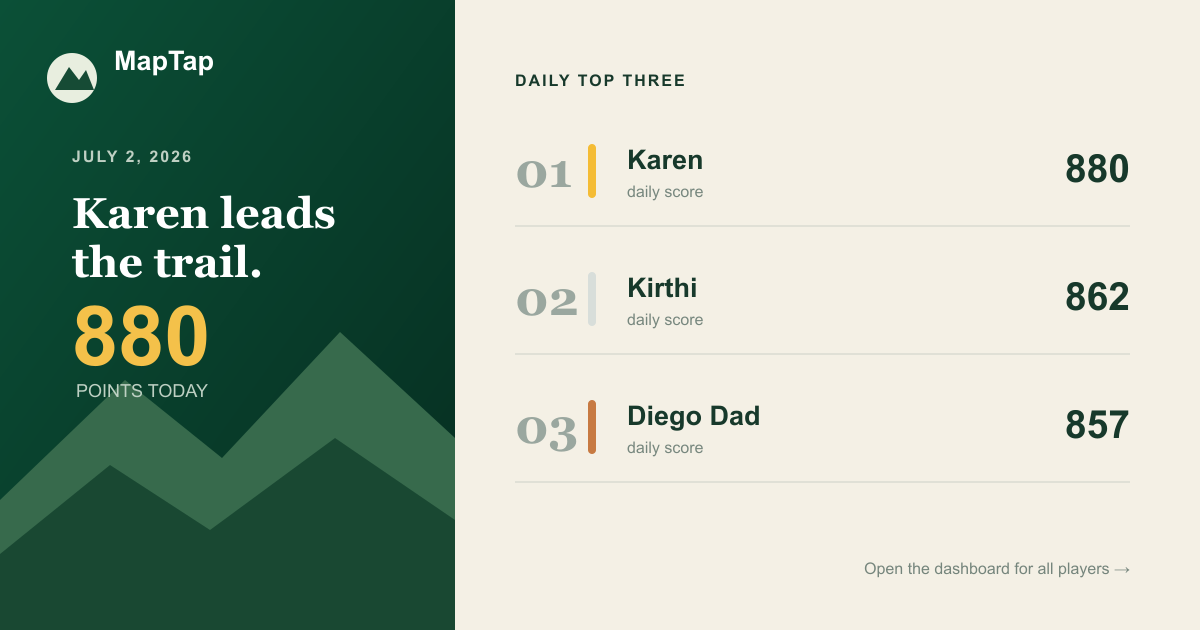
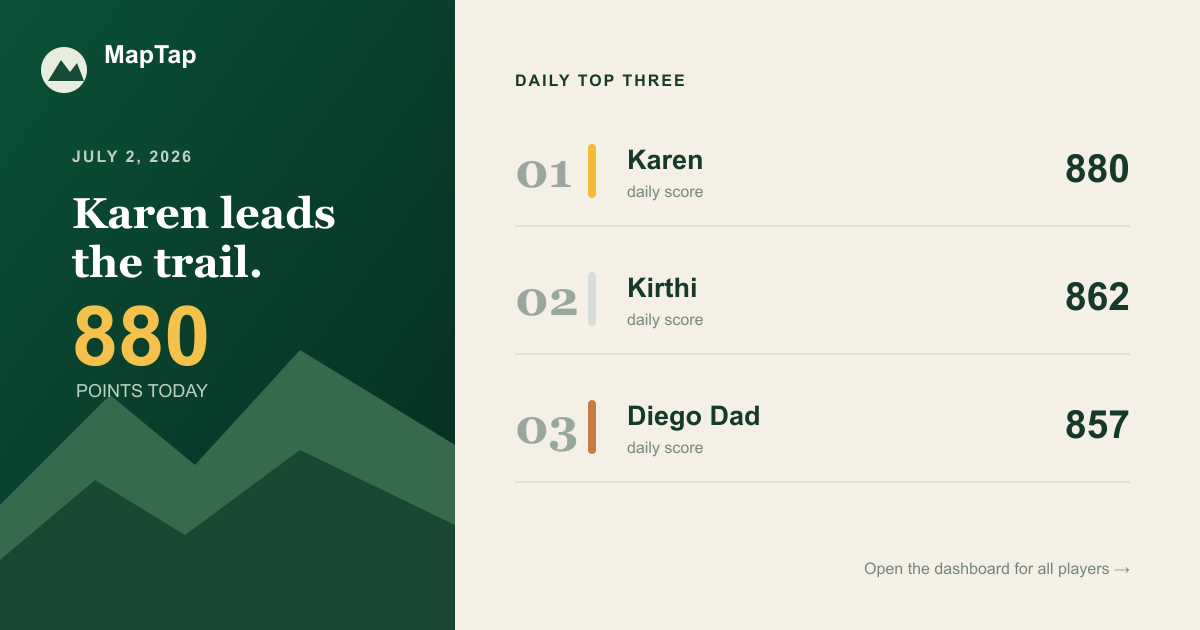
feat: add locations to past-day share previews

diff --git a/tests/og-card.test.js b/tests/og-card.test.js
@@ -6,10 +6,15 @@ const players = [
   { displayName: 'Kirthi', score: 862, playedToday: true, history: [{ date: '2026-07-01', score: 850 }] },
   { displayName: 'Diego Dad', score: 857, playedToday: true, history: [{ date: '2026-07-01', score: 820 }] }
 ];
+const locations = [
+  { name: 'Newark, New Jersey', lat: 40.743, lng: -74.1724 },
+  { name: 'Tokyo, Japan', lat: 35.6764, lng: 139.65 },
+  { name: 'Gaborone, Botswana', lat: -24.6282, lng: 25.9231 }
+];
 
 describe('Open Graph broadcast card', () => {
   it('renders the selected date without exposing a group label or player initials', () => {
-    const svg = broadcastCardSvg({ date: '2026-07-02', today: '2026-07-02', players });
+    const svg = broadcastCardSvg({ date: '2026-07-02', today: '2026-07-02', players, locations });
     expect(svg).toContain('JULY 2, 2026');
     expect(svg).toContain('Karen leads');
     expect(svg).toContain('POINTS TODAY');
@@ -17,6 +22,8 @@ describe('Open Graph broadcast card', () => {
     expect(svg).not.toContain('HB GROUP');
     expect(svg).not.toContain('>K<');
     expect(svg).not.toContain('>DD<');
+    expect(svg).not.toContain('WHERE THE TRAIL WENT');
+    expect(svg).not.toContain('Tokyo');
   });
 
   it('uses historical scores for earlier dated previews', () => {
@@ -25,8 +32,14 @@ describe('Open Graph broadcast card', () => {
       { displayName: 'Diego Dad', score: 820 },
       { displayName: 'Karen', score: 810 }
     ]);
-    const svg = broadcastCardSvg({ date: '2026-07-01', today: '2026-07-02', players });
-    expect(svg).toContain('POINTS THAT DAY');
+    const svg = broadcastCardSvg({ date: '2026-07-01', today: '2026-07-02', players, locations });
+    expect(svg).toContain('Kirthi led');
+    expect(svg).toContain('the day.');
+    expect(svg).toContain('WINNING SCORE');
+    expect(svg).toContain('FINAL TOP THREE');
+    expect(svg).toContain('WHERE THE TRAIL WENT');
+    expect(svg).toContain('Tokyo');
+    expect(svg).toContain('scale(1.25)');
   });
 
   it('has a deliberate empty-day treatment', () => {
@@ -34,6 +47,17 @@ describe('Open Graph broadcast card', () => {
     expect(svg).toContain('The trail is');
     expect(svg).toContain('NO SCORES YET');
     expect(svg).toContain('No scores recorded');
+  });
+
+  it('keeps group scoreboards isolated while sharing the same past-day locations', () => {
+    const otherPlayers = [{ displayName: 'Chulo', history: [{ date: '2026-07-01', score: 777 }] }];
+    const hb = broadcastCardSvg({ date: '2026-07-01', today: '2026-07-02', players, locations });
+    const sb = broadcastCardSvg({ date: '2026-07-01', today: '2026-07-02', players: otherPlayers, locations });
+    expect(hb).toContain('Kirthi');
+    expect(hb).not.toContain('Chulo');
+    expect(sb).toContain('Chulo');
+    expect(sb).not.toContain('Kirthi');
+    expect(sb).toContain('Newark');
   });
 
   it('generates a route-ready preview date for every day in the rolling window', () => {